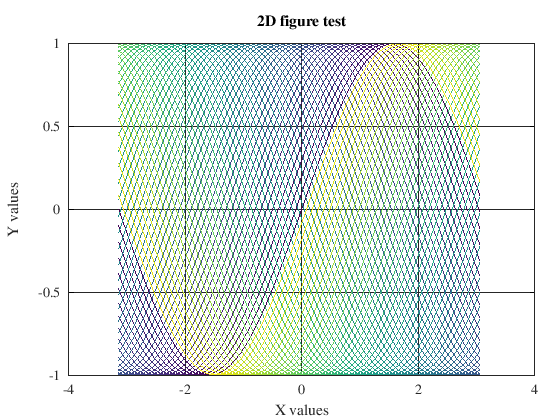
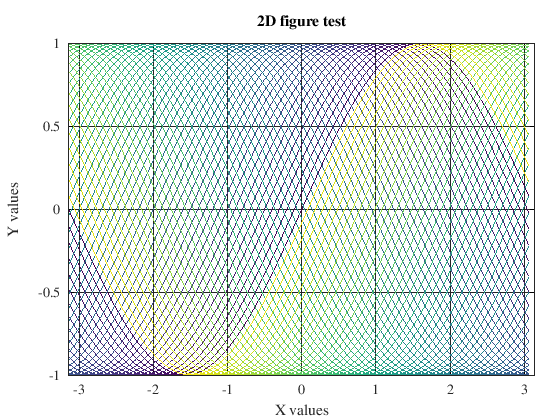
Test limits

Changed region(s): [[0.1214, 0.0929, 0.9411, 0.9595]]

diff --git a/nicetest.m b/nicetest.m
@@ -17,6 +17,7 @@ endfor
 xlabel("X values");
 ylabel("Y values");
 title("2D figure test");
+xlim([-pi,pi]);
 
 niceprint(nf, "sin.png");
 
@@ -35,5 +36,5 @@ ylabel("Y values");
 zlabel("Hit probability");
 title("3D waterfall surface test [Gaussian histograms]");
 view(45,45);
-
+xlim([-6,6]);
 niceprint(nf2, "wfall.png");
